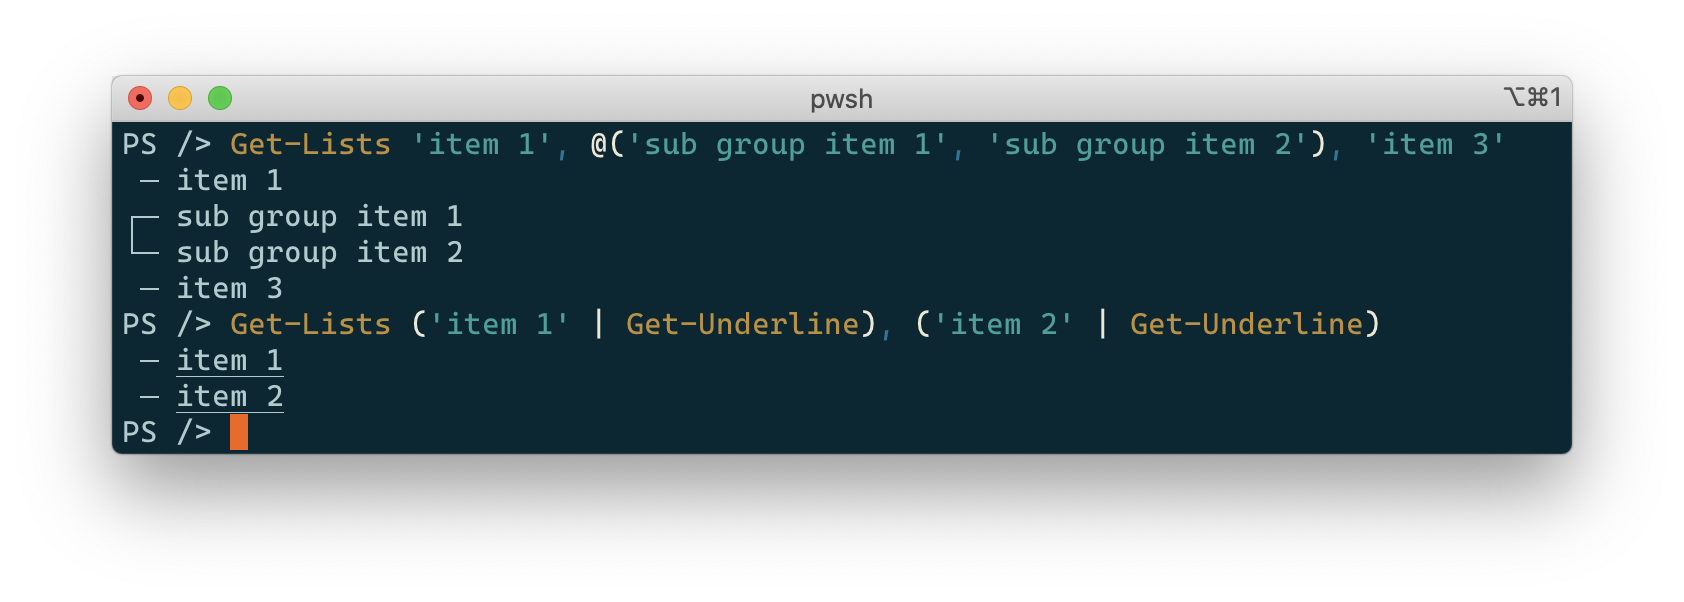
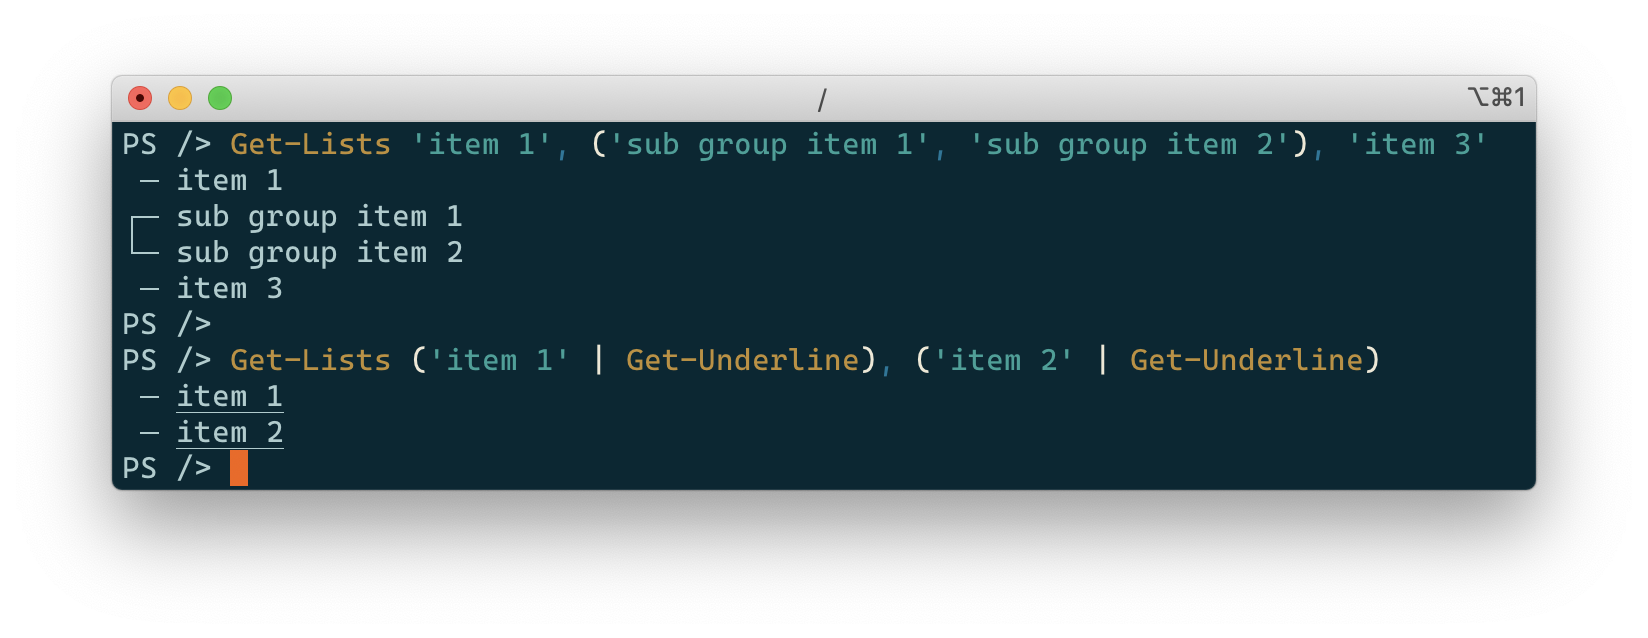
Document Get-Tree in README

Changed region(s): [[0.0619, 0.1196, 0.9284, 0.7774]]

diff --git a/README.md b/README.md
@@ -16,14 +16,13 @@
   - [Get-Lists](#get-lists)
   - [Get-Tree](#get-tree)
 - [License](#license)
-- [Attributions](#attributions)
 - [Contact](#contact)
 
 ## About The Project
 
-A good host is said to be *hospitable*, as such this project contains a set of PowerShell [cmdlets][cmdlets] (in the form of [advanced functions][advanced-functions]) for printing stuff on terminal/console.
+A good host is said to be *hospitable*. I like bad puns so this project which contains a set of PowerShell [cmdlets][cmdlets] (in the form of [advanced functions][advanced-functions]) for printing stuff on terminal/console is perfectly named.
 
-This project supports PowerShell 7+ and is compatible with Windows 10+, with MacOS and Linux. Because most pretty outputs rely on [virtual terminal sequences (based on VT-100)][vt-100], older versions of Windows are not supported.
+This project supports PowerShell 7+ and is compatible with Windows 10+, MacOS and Linux. Because most pretty outputs rely on [virtual terminal sequences (based on VT-100)][vt-100], older versions of Windows are not supported.
 
 ## Built With
 
@@ -53,7 +52,7 @@ To run locally follow these steps:
 
 ### Text Formatting
 
-The three following formatting are supported:
+The following text formatting is supported:
 
 ```powershell
 # Bold, underline and negative formats
@@ -65,7 +64,7 @@ Get-Negative negative
 # See https://github.com/PowerShell/PowerShell/pull/14461
 Get-StrikeThrough strikethrough
 
-# They can be combined too in pipes
+# They can be combined too (e.g. using pipes)
 'hello there' | Get-Bold | Get-Underline
 ```
 
@@ -77,7 +76,7 @@ Format a list (of lists).
 
 ```powershell
 # A 3-element list including a nested list
-Get-Lists 'item 1', @('sub group item 1', 'sub group item 2'), 'item 3'
+Get-Lists 'item 1', ('sub group item 1', 'sub group item 2'), 'item 3'
 
 # With some formatting
 Get-Lists ('item 1' | Get-Underline), ('item 2' | Get-Underline)
@@ -90,59 +89,80 @@ Get-Lists ('item 1' | Get-Underline), ('item 2' | Get-Underline)
 Format a tree.
 
 ```powershell
+#
 # Build a tree
+#
+# Note the Out-Null not to pollute the output since
+# AddChild returns the child tree node
 $tree = New-Tree
 $fruits = $tree.AddChild('Fruits')
-@('🥝 Kiwi', '🥭 Mango', '🍌 Banana') | ForEach-Object {
-  # Add some children to the fruits root (Out-Null not to pollute stdout where each node would be printed when returned)
-  $fruits.AddChild($_) | Out-Null
-}
+('🥝 Kiwi', '🥭 Mango', '🍌 Banana') | ForEach-Object {
+  $fruits.AddChild($_)
+} | Out-Null
 $vegetables = $tree.AddChild('Vegetables')
-@('🥕 Carrot', '🥔 Potato') | ForEach-Object {
-  $vegetables.AddChild($_) | Out-Null
-}
+('🥕 Carrot', '🥔 Potato') | ForEach-Object {
+  $vegetables.AddChild($_)
+} | Out-Null
 
-# Get the tree
+# And render it
 Get-Tree $tree
 ```
 
-![Get-Tree multi-root with one-column nodes](./images/get-tree1.png)
+![Get-Tree (simple)](./images/get-tree1.png)
 
-In addition, the following complex formatting are supported:
+More complex scenarios are also supported:
 
-- A node may have multiple columns (i.e. space-separated strings)
-- Columns can be aligned (left, right, centered), the alignment is inherited from parent to children and can be overridden
-- Columns are padded to the longest column of nodes under a same parent, this behavior can be overridden with groups (WIP rename)
+1. A node may have multiple columns (i.e. space-separated strings)
+
+2. Columns can be aligned (left, right, centered),
+  the alignment is inherited from parent to children and can be overridden
+
+3. Columns are padded to the longest column of nodes under a same parent,
+  this behavior can be overridden with groups
 
 ```powershell
-# Build the tree
+#
+# Build a tree
+#
 $tree = New-Tree '2021-03-25'
+# Set the third column (0-indexed) of all nodes to be right aligned
 $tree.SetColumnAlignment(2, 'Right')
 $stock = $tree.AddChild('Stock')
-$itot = $stock.AddChild(@((Get-Bold 'ITOT'), 'iShares Core S&P Total US Stock Market ETF', (Get-Negative '$89.93')))
-$ixus = $stock.AddChild(@((Get-Bold 'IXUS'), 'iShares Core MSCI Total International Stock ETF', (Get-Negative '$69.50')))
+# Add nodes using 3 columns and text formatting
+$itot = $stock.AddChild(((Get-Bold 'ITOT'), 'iShares Core S&P Total US Stock Market ETF', (Get-Negative '$89.93')))
+$ixus = $stock.AddChild(((Get-Bold 'IXUS'), 'iShares Core MSCI Total International Stock ETF', (Get-Negative '$69.50')))
 $crypto = $tree.AddChild('Crypto')
 $btc = $crypto.AddChild('Bitcoin')
-$gbtc = $btc.AddChild(@((Get-Bold 'GBTC'), 'Grayscale Bitcoin Trust (Btc)', (Get-Negative '$44.54')))
-@($itot, $ixus, $gbtc) | ForEach-Object { $_.SetColumnAlignment(0, 'Right') }
+$gbtc = $btc.AddChild(((Get-Bold 'GBTC'), 'Grayscale Bitcoin Trust (Btc)', (Get-Negative '$44.54')))
+# Replace the default alignment (left) for the first column (0-indexed) of the three three-column nodes
+($itot, $ixus, $gbtc) | ForEach-Object {
+  $_.SetColumnAlignment(0, 'Right')
+}
 
-# Get the tree
+# Render the tree
 Get-Tree $tree
 ```
 
-WIP: This looks very weird. Let's fix it. The way we do alignment is coming from Souvenirs and it does not make much sense here. Proposal:
+![Get-Tree (complex with default padding)](./images/get-tree2.png)
 
-- always align nodes under a same parent (i.e. all children) - stop doing it for all nodes at the same depth (which is more complicated to compute...)
-- replace `New-Tree` by `New-Tree` (which will return an empty root so we don't have to do it in `Get-Tree`), adding children will be needed under the root
-- in Get-Tree add an option to pass a list of list of nodes to align together, e.g. `Get-Tree $tree -AlignmentGroups ,@($stock, $gbtc)`
+Notice the `ITOT` and `IXUS` nodes have their columns padded together (so the $ amounts on the right are aligned properly). This is a demonstration of the third scenario described above.
 
-🎉
+In order to pad together the leave-nodes they can be put together in an alignment group:
+
+```powershell
+# Render the tree with one alignment group
+Get-Tree $tree -AlignmentGroups $itot, $ixus, $gbtc
+
+# Note, AlignmentGroups is expected to be a two-dimension array
+# as such a more accurate (but equivalent) syntax would be:
+# Get-Tree $tree -AlignmentGroups (,($itot, $ixus, $gbtc))
+```
+
+![Get-Tree (complex with alignment groups)](./images/get-tree3.png)
 
 ## License
 
 Distributed under the MIT License. See [`LICENSE`](./LICENSE) for more information.
-
-## Attributions
 
 <!-- CONTACT -->
 ## Contact
